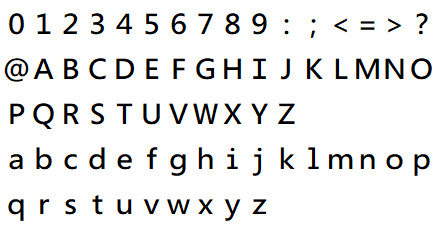
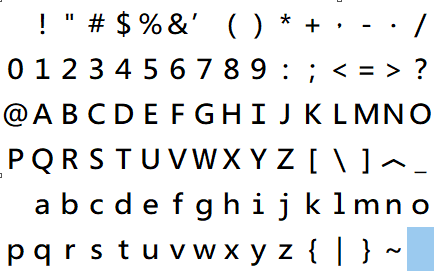
add PrintText

diff --git a/A_dice/wnd.py b/A_dice/wnd.py
@@ -13,14 +13,17 @@ import shadow
 
 
 class Wnd:
-    st=1e16
     def ch(self):
-        if(time.time()-Wnd.st>2):
+        if(time.time()-self.st>2):
             return 
             #self.m_camera.m_pos=np.array((0.60108362,12.07439748,-0.36730854))
             #self.m_camera.m_pitch=-1.6000000000000003
             #self.m_camera.m_yaw=-1.4707963267948965
     def __init__(self):
+        self.now_sum=[]
+        self.score=0
+        self.st=1e16
+        self.begin_time=time.time()
         GLUT.glutInit()
         GLUT.glutInitDisplayMode(
             GLUT.GLUT_DOUBLE | GLUT.GLUT_RGBA | GLUT.GLUT_DEPTH)
@@ -43,6 +46,7 @@ class Wnd:
     def __CreateShader(self):
         self.m_diceShader = shaderProgram.CreateDiceShader()
         GL.glUniformMatrix4fv(2, 1, GL.GL_TRUE, self.m_camera.GetProjectionMatrix())
+        self.m_alphabatShader = shaderProgram.CreateAlphabat()
         self.m_planeShader = shaderProgram.CreatePlaneShader()
         GL.glUniformMatrix4fv(2, 1, GL.GL_TRUE, self.m_camera.GetProjectionMatrix())
         self.m_depthTextures = shadow.CreateDepthTexture(len(shaderProgram.lights))
@@ -50,7 +54,13 @@ class Wnd:
         self.m_framebuffer = GL.glGenFramebuffers(1)
         self.m_shadowShader = shaderProgram.CreateShadowShader()
         self.timer = 0
-
+    def PrintText(self,string,xx,yy,size):
+        for i in range(len(string)):
+            GL.glUniform1i(1,ord(string[i]))
+            GL.glUniform2f(3,xx,yy)
+            GL.glUniform1f(4,size)
+            GL.glDrawArrays(GL.GL_TRIANGLES, 0, 6)
+            xx+=0.03*(size)
     def RandomizeDices(self):
         self.m_diceCnt=randint(1,6)
         #旁邊camera
@@ -105,6 +115,7 @@ class Wnd:
         GL.glViewport(0,0,800,600)
         viewMatrix = self.m_camera.GetViewMatrix()
         # Draw Dice
+        self.target=0
         GL.glUseProgram(self.m_diceShader)
         shadow.BindShadowMapTexture(self.m_shadowMapTextures)
         GL.glUniform3fv(4, 1, self.m_camera.m_pos)
@@ -118,7 +129,13 @@ class Wnd:
         GL.glUniform3fv(4, 1, self.m_camera.m_pos)
         GL.glDrawArrays(GL.GL_TRIANGLES, 0, 6)
         # test ->draw something on screen
-
+        GL.glDisable(GL.GL_DEPTH_TEST)
+        GL.glUseProgram(self.m_alphabatShader)
+        sum=str(b''.join(self.now_sum),'utf-8')
+        self.PrintText(f"Enter the sum :{sum}",-1,-1+0.1,1.0)
+        self.PrintText(f"{max(30-max(int(time.time())-int(self.begin_time),0),0)}",-0.1,1.0,2.0)
+        self.PrintText(f"Score:{self.score}",0.5,1.0,2.0)
+        GL.glEnable(GL.GL_DEPTH_TEST)   
         GLUT.glutSwapBuffers()
         
 
@@ -169,6 +186,24 @@ class Wnd:
             self.m_camera.m_pos=np.array((2.67276163,3.51072055,-8.99496325))
             self.m_camera.m_pitch=-3.1000000000000014
             self.m_camera.m_yaw=-1.4707963267948965
+        if c == b'\x08':#backspace
+            if(len(self.now_sum)!=0):
+                self.now_sum.pop()
+        elif c >= b'0' and c <= b'9':
+            self.now_sum.append(c)
+        elif c == b'\r':#enter
+            sum=0
+            for i in self.now_sum:
+                sum=sum*10+int(i)-int(b'0')
+            self.now_sum=[]
+            if sum==self.target:
+                self.score+=4
+            else : 
+                self.score-=1
+
+
+
+
 
 '''
 正上方camera資訊

diff --git a/A_dice/shaderProgram.py b/A_dice/shaderProgram.py
@@ -16,6 +16,18 @@ def LoadDiceTexture():
     GL.glBindTexture(GL.GL_TEXTURE_2D, tex)
     GL.glUniform1i(3, 0)
 
+def LoadAlphabatTexture():
+    img = plt.imread("ascii.png")
+    tex = GL.glGenTextures(1)
+    GL.glActiveTexture(GL.GL_TEXTURE1)
+    GL.glBindTexture(GL.GL_TEXTURE_2D, tex)
+    GL.glTexParameteri(GL.GL_TEXTURE_2D, GL.GL_TEXTURE_WRAP_S, GL.GL_REPEAT)
+    GL.glTexParameteri(GL.GL_TEXTURE_2D, GL.GL_TEXTURE_WRAP_T, GL.GL_REPEAT)
+    GL.glTexParameteri(GL.GL_TEXTURE_2D, GL.GL_TEXTURE_MAG_FILTER, GL.GL_LINEAR)
+    GL.glTexParameteri(GL.GL_TEXTURE_2D, GL.GL_TEXTURE_MIN_FILTER, GL.GL_LINEAR)
+    GL.glTexImage2D(GL.GL_TEXTURE_2D, 0, GL.GL_RGBA8,len(img[0]),len(img),0,GL.GL_RGBA, GL.GL_FLOAT,img)
+    GL.glUniform1i(0, 1)
+
 def CreateShader(vertShaderSrc, fragShaderSrc, geomShaderSrc=None):
     programId = GL.glCreateProgram()
     vertShader = GL.glCreateShader(GL.GL_VERTEX_SHADER)
@@ -249,4 +261,62 @@ def CreateShadowShader():
     }
     """
     pid = CreateShader(vertShaderSrc, fragShaderSrc, geomShaderSrc)
+    return pid
+
+def CreateAlphabat():
+    #to do
+    vertShaderSrc = """
+    #version 450 core
+    layout(location=1) uniform int input_ascii_code;
+    layout(location=3) uniform vec2 posi;
+    layout(location=4) uniform float size;
+
+    out vec2 pos;
+    void main(){
+        int c=input_ascii_code;
+        float i,j,dd,dy,Ax,Ay,Bx,By,Cx,Cy,Dx,Dy;
+        c=c-' ';
+        i=float(c/16);
+        j=float(c%16);
+        
+        dd=0.05*size;
+        dy=0.07*size;
+        Ax=j/16.0,Ay=(i/6.0);
+        Bx=(j+1)/16.0,By=(i/6.0);
+        Cx=j/16.0,Cy=((i+1)/6.0);
+        Dx=(j+1)/16.0,Dy=(i+1)/6.0;
+        vec2 texp[]={//ascii上 0~1 0~1
+            vec2(Ax, Ay), vec2(Cx, Cy), vec2(Dx,Dy),
+            vec2(Dx,Dy), vec2(Bx,By), vec2(Ax,Ay)
+        };
+        float xx=posi.x;
+        float yy=posi.y;
+        Ax=xx,Ay=yy;
+        Bx=xx+dd,By=yy;
+        Cx=xx,Cy=(yy-dy);
+        Dx=xx+dd,Dy=yy-dy;
+        vec2 p[]={ //畫面上-1~1 -1~1
+            vec2(Ax, Ay), vec2(Cx, Cy), vec2(Dx,Dy),
+            vec2(Dx,Dy), vec2(Bx,By), vec2(Ax,Ay)
+        };
+        gl_Position = vec4(p[gl_VertexID], 0 , 1 );
+        pos=texp[gl_VertexID];
+    }
+    """
+    fragShaderSrc = """
+    #version 450 core
+    layout(location=0) uniform sampler2D texSampler;
+    layout(location=2) uniform vec2 position;
+
+    in vec2 pos;
+    out vec3 color;
+    void main(){
+        color = texture(texSampler,pos).xyz;
+        if(dot(color,color)>0.8){
+            discard;
+        }
+    }
+    """
+    pid = CreateShader(vertShaderSrc, fragShaderSrc)
+    LoadAlphabatTexture()
     return pid
